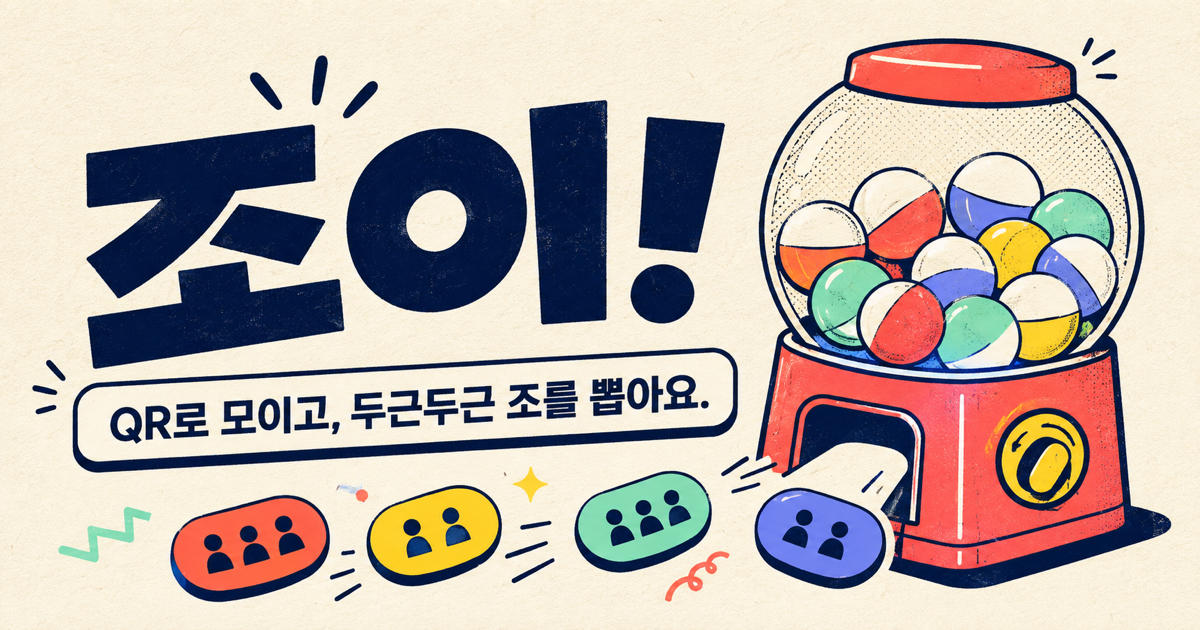
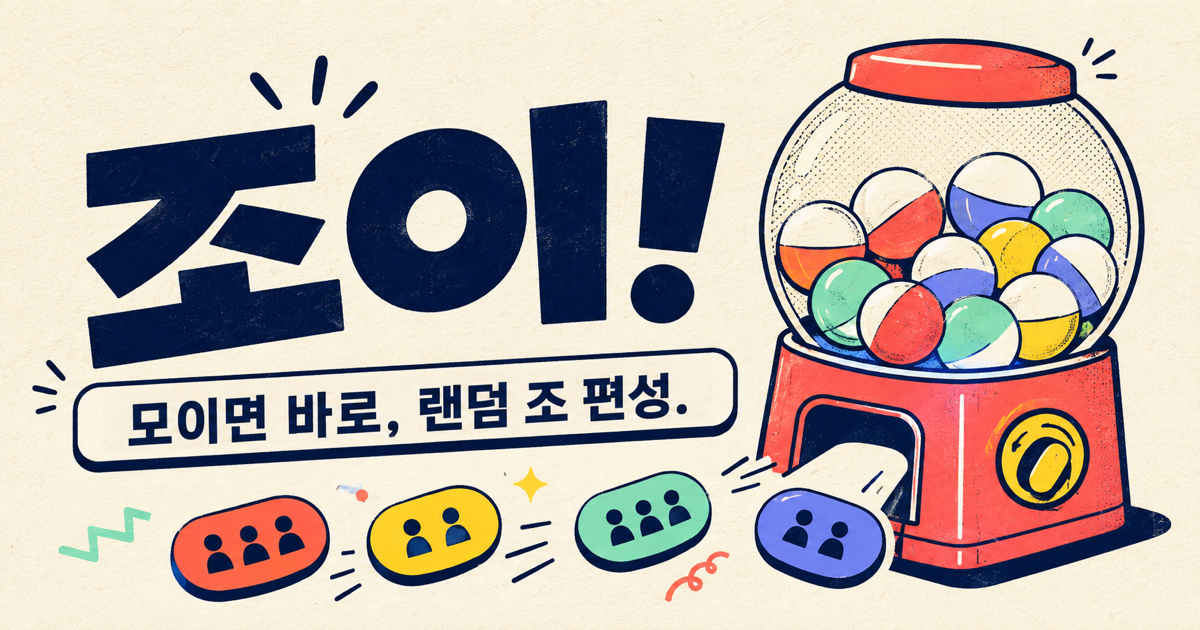
Refresh the team draw headline

Changed region(s): [[0.0925, 0.573, 0.5858, 0.7238]]

diff --git a/src/main.js b/src/main.js
@@ -276,7 +276,7 @@ function renderGroups(container, state, lastClientId = "") {
     if (!group.members.length) {
       const empty = document.createElement("span");
       empty.className = "team-empty";
-      empty.textContent = "아직 두근두근 대기 중";
+      empty.textContent = "아직 배정 전이에요";
       members.append(empty);
     } else {
       for (const member of group.members) {
@@ -493,7 +493,7 @@ class AdminApp {
           <section class="intro" id="admin-intro">
             <div>
               <p class="eyebrow">LIVE TEAM DRAW</p>
-              <h1>QR로 모이고,<br><em>두근두근</em> 조를 뽑아요.</h1>
+              <h1>모이면 바로,<br><em>랜덤</em> 조 편성.</h1>
             </div>
             <p class="intro-copy">참가자가 이름을 보내면 이 화면에 바로 도착해요. 조 수를 정하고 시작하면 한 명씩 쏙쏙 배정됩니다.</p>
           </section>

diff --git a/index.html b/index.html
@@ -17,7 +17,7 @@
     <meta property="og:title" content="조이! — QR 랜덤 조 편성" />
     <meta
       property="og:description"
-      content="QR로 모이고, 두근두근 조를 뽑아요."
+      content="모이면 바로, 랜덤 조 편성."
     />
     <meta property="og:url" content="https://choi586.github.io/team-capsule/" />
     <meta property="og:image" content="https://choi586.github.io/team-capsule/og.png" />
@@ -25,7 +25,7 @@
     <meta name="twitter:title" content="조이! — QR 랜덤 조 편성" />
     <meta
       name="twitter:description"
-      content="QR로 모이고, 두근두근 조를 뽑아요."
+      content="모이면 바로, 랜덤 조 편성."
     />
     <meta name="twitter:image" content="https://choi586.github.io/team-capsule/og.png" />
     <link rel="icon" href="./favicon.svg" type="image/svg+xml" />
